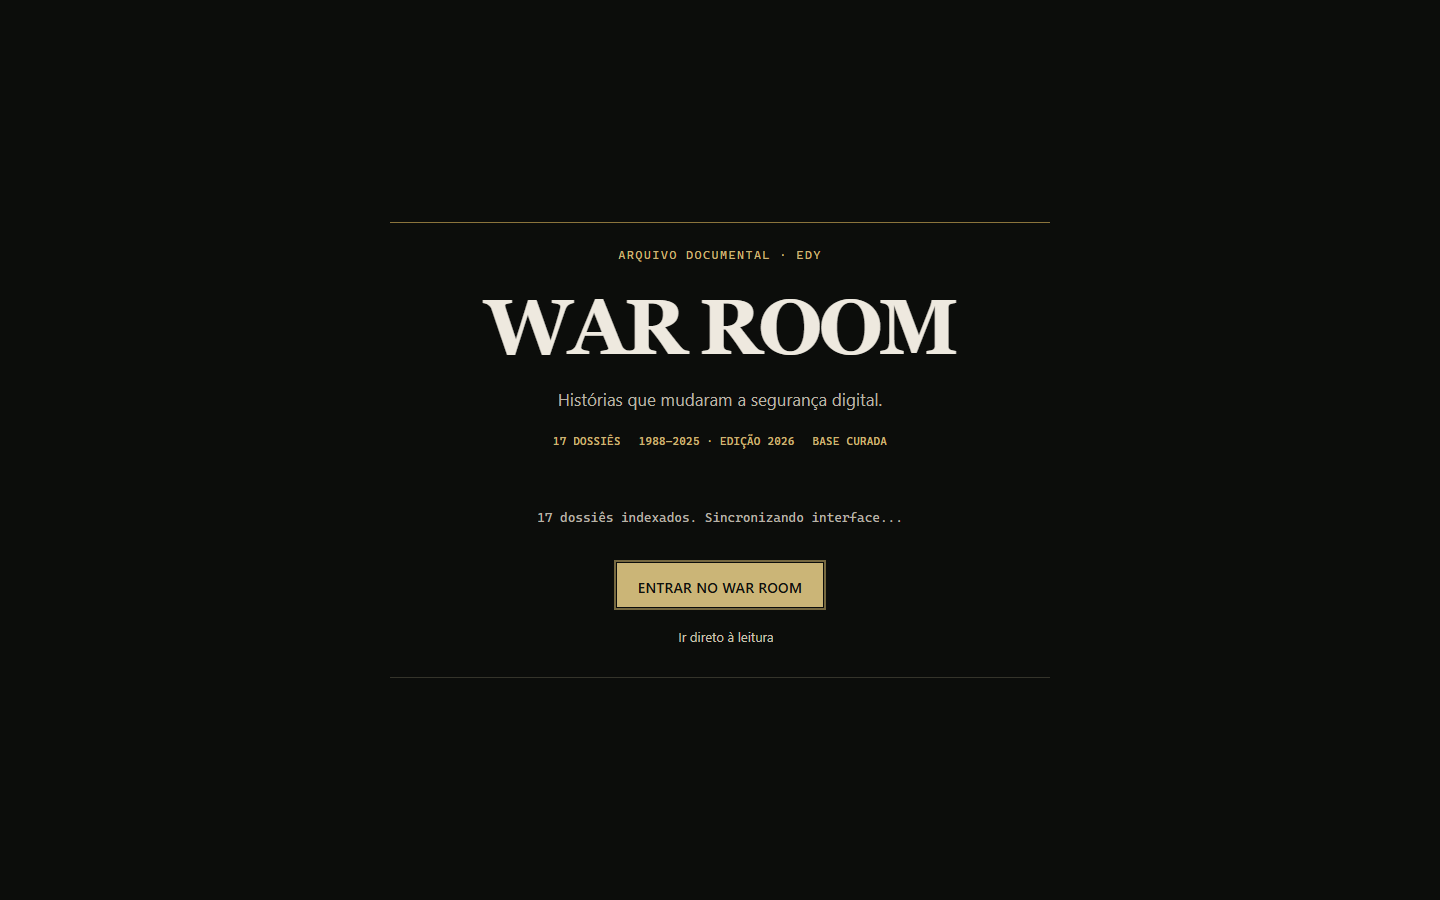
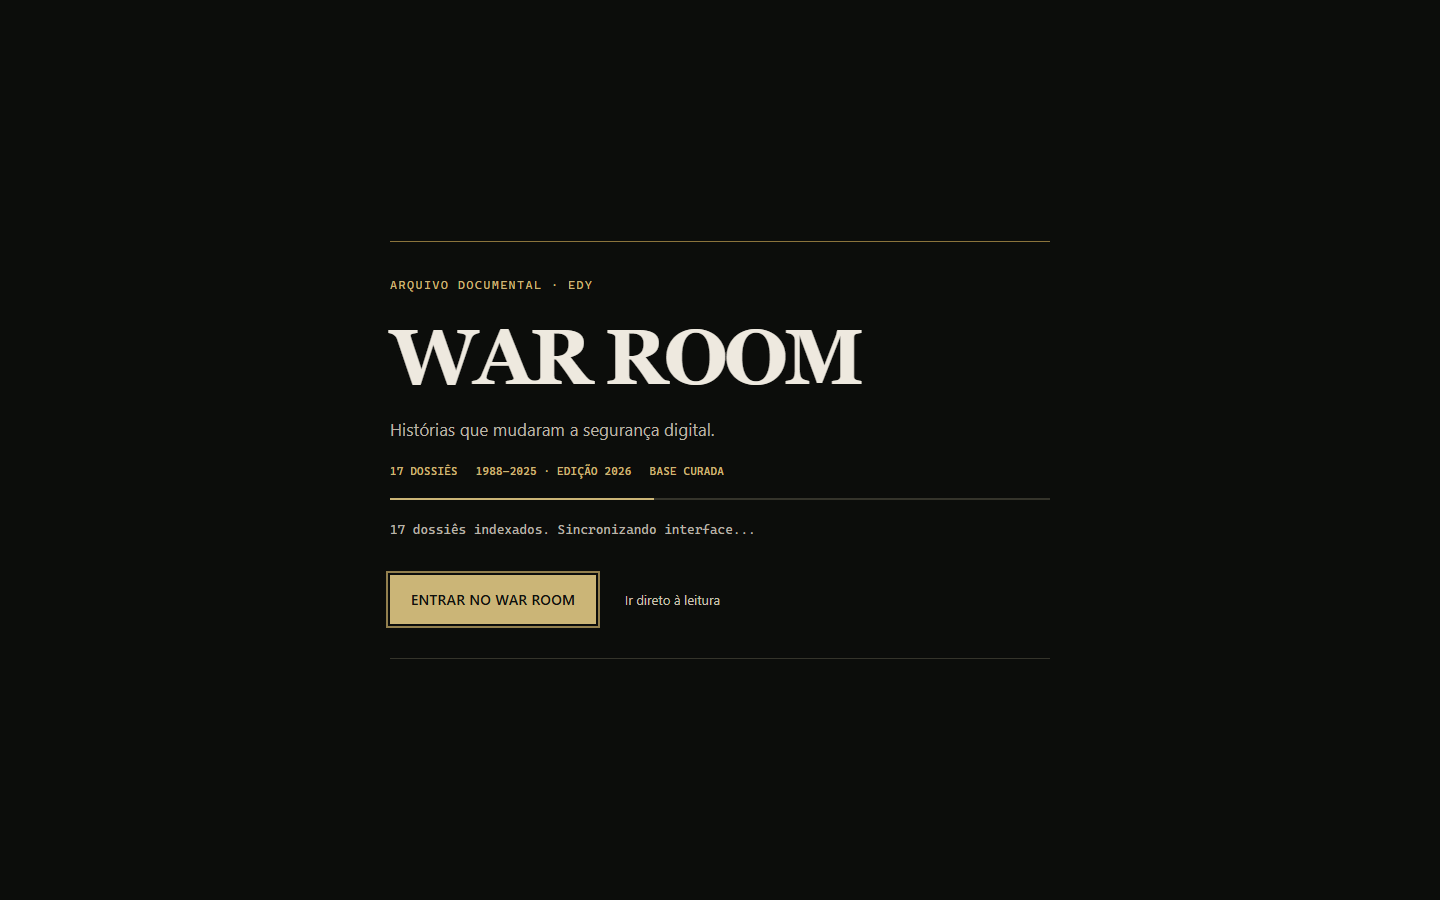
fix(entrance): preserve loader progress and explicit keyboard arrival

Changed region(s): [[0.25, 0.28, 0.6562, 0.5289], [0.25, 0.6222, 0.5938, 0.7156], [0.2812, 0.56, 0.625, 0.5911]]

diff --git a/assets/css/entrance.css b/assets/css/entrance.css
@@ -1,7 +1,7 @@
 /* Documentary opening: readable text, clear connections and bounded motion. */
 #loading-screen{background:#0c0d0b;transition:opacity .18s ease,visibility 0s .18s}
 #loading-screen::before,#loading-screen::after{display:none}
-.loading-content{width:min(660px,calc(100% - 48px));text-align:left;padding:34px 0;border-top:1px solid #8b743c;border-bottom:1px solid #35342b}
+.loading-content{display:block;height:auto;min-height:0;width:min(660px,calc(100% - 48px));text-align:left;padding:34px 0;border-top:1px solid #8b743c;border-bottom:1px solid #35342b}
 .loading-kicker{font:12px/1.5 var(--font-mono);letter-spacing:.12em;color:#cbb577;margin-bottom:24px}
 .loading-emblem{font-size:clamp(40px,8vw,78px);letter-spacing:-.045em;line-height:1;opacity:1;animation:none;background:none;-webkit-text-fill-color:#eee9df;color:#eee9df;margin:0 0 20px;filter:none}
 .loading-sub,.loading-status,.loading-bar-container,#load-enter,.load-skip{opacity:1;animation:none;transform:none;filter:none}
